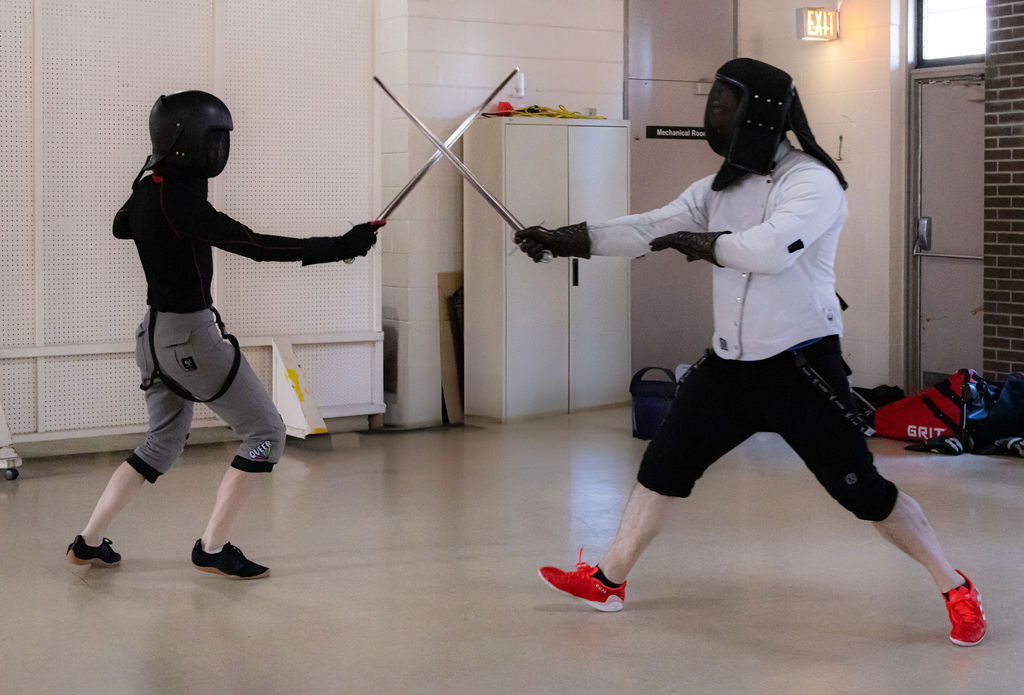
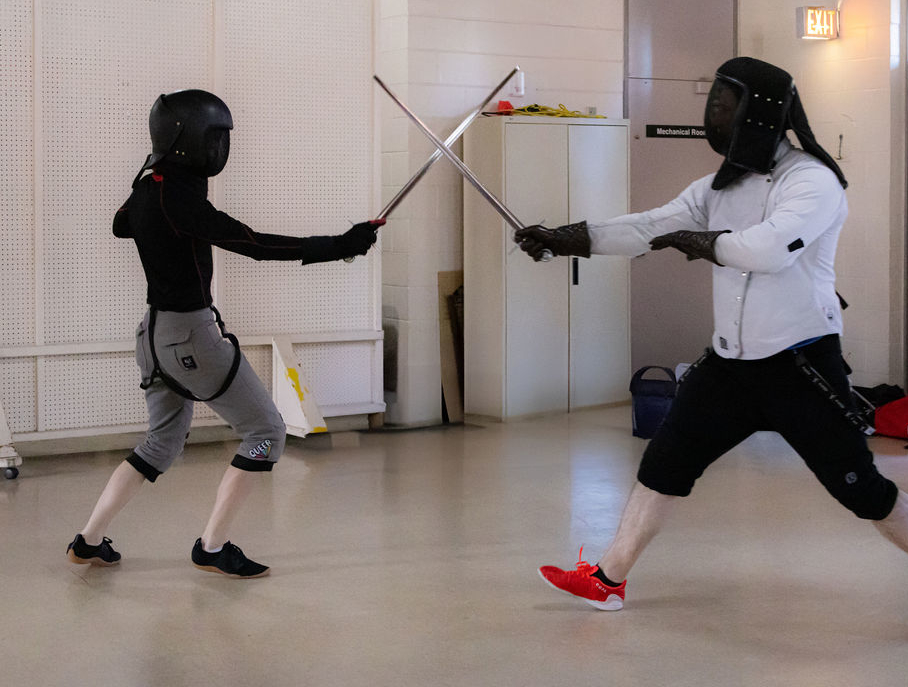
cropped images to focus, added mobile breakpoint for carousel height, aligned images to top

diff --git a/src/components/HeroBanner.jsx b/src/components/HeroBanner.jsx
@@ -5,18 +5,18 @@ import { Autoplay } from 'swiper/modules';
 import 'swiper/css';
 
 const images = [
-    { src: './img/group3.jpg', alt: 'Group event', className: 'object-top'},
-    { src: './img/b1.jpg', alt: 'Historical drills in action', className: 'object-[0px_-50px]' },
-    { src: './img/bc1.jpg', alt: 'Training with sidesword', className: 'object-[0px_-100px]' },
-    { src: './img/cs1.jpg', alt: 'Fencing', className: 'object-[0px_-550px]' },
-    { src: './img/mc1.jpg', alt: 'Fencing', className: 'object-[0px_-300px]' },
+    { src: './img/group3.jpg', alt: 'Group event'},
+    { src: './img/b1.jpg', alt: 'Historical drills in action'},
+    { src: './img/bc1.jpg', alt: 'Training with sidesword'},
+    { src: './img/cs1.jpg', alt: 'Fencing'},
+    { src: './img/mc1.jpg', alt: 'Fencing'},
 ];
 
 export default function HeroBanner() {
     const { t } = useTranslation('home');
 
     return (
-        <section id="heroBanner" className="relative h-[500px] overflow-hidden shadow-md">
+        <section id="heroBanner" className="relative h-[250px] md:h-[500px] overflow-hidden shadow-md">
             {/* Background Carousel */}
             <Swiper
                 modules={[Autoplay]}
@@ -30,7 +30,7 @@ export default function HeroBanner() {
                         <img
                             src={img.src}
                             alt={img.alt}
-                            className={"w-full h-full object-cover"}
+                            className={"w-full h-full object-cover object-top"}
                         />
                     </SwiperSlide>
                 ))}
